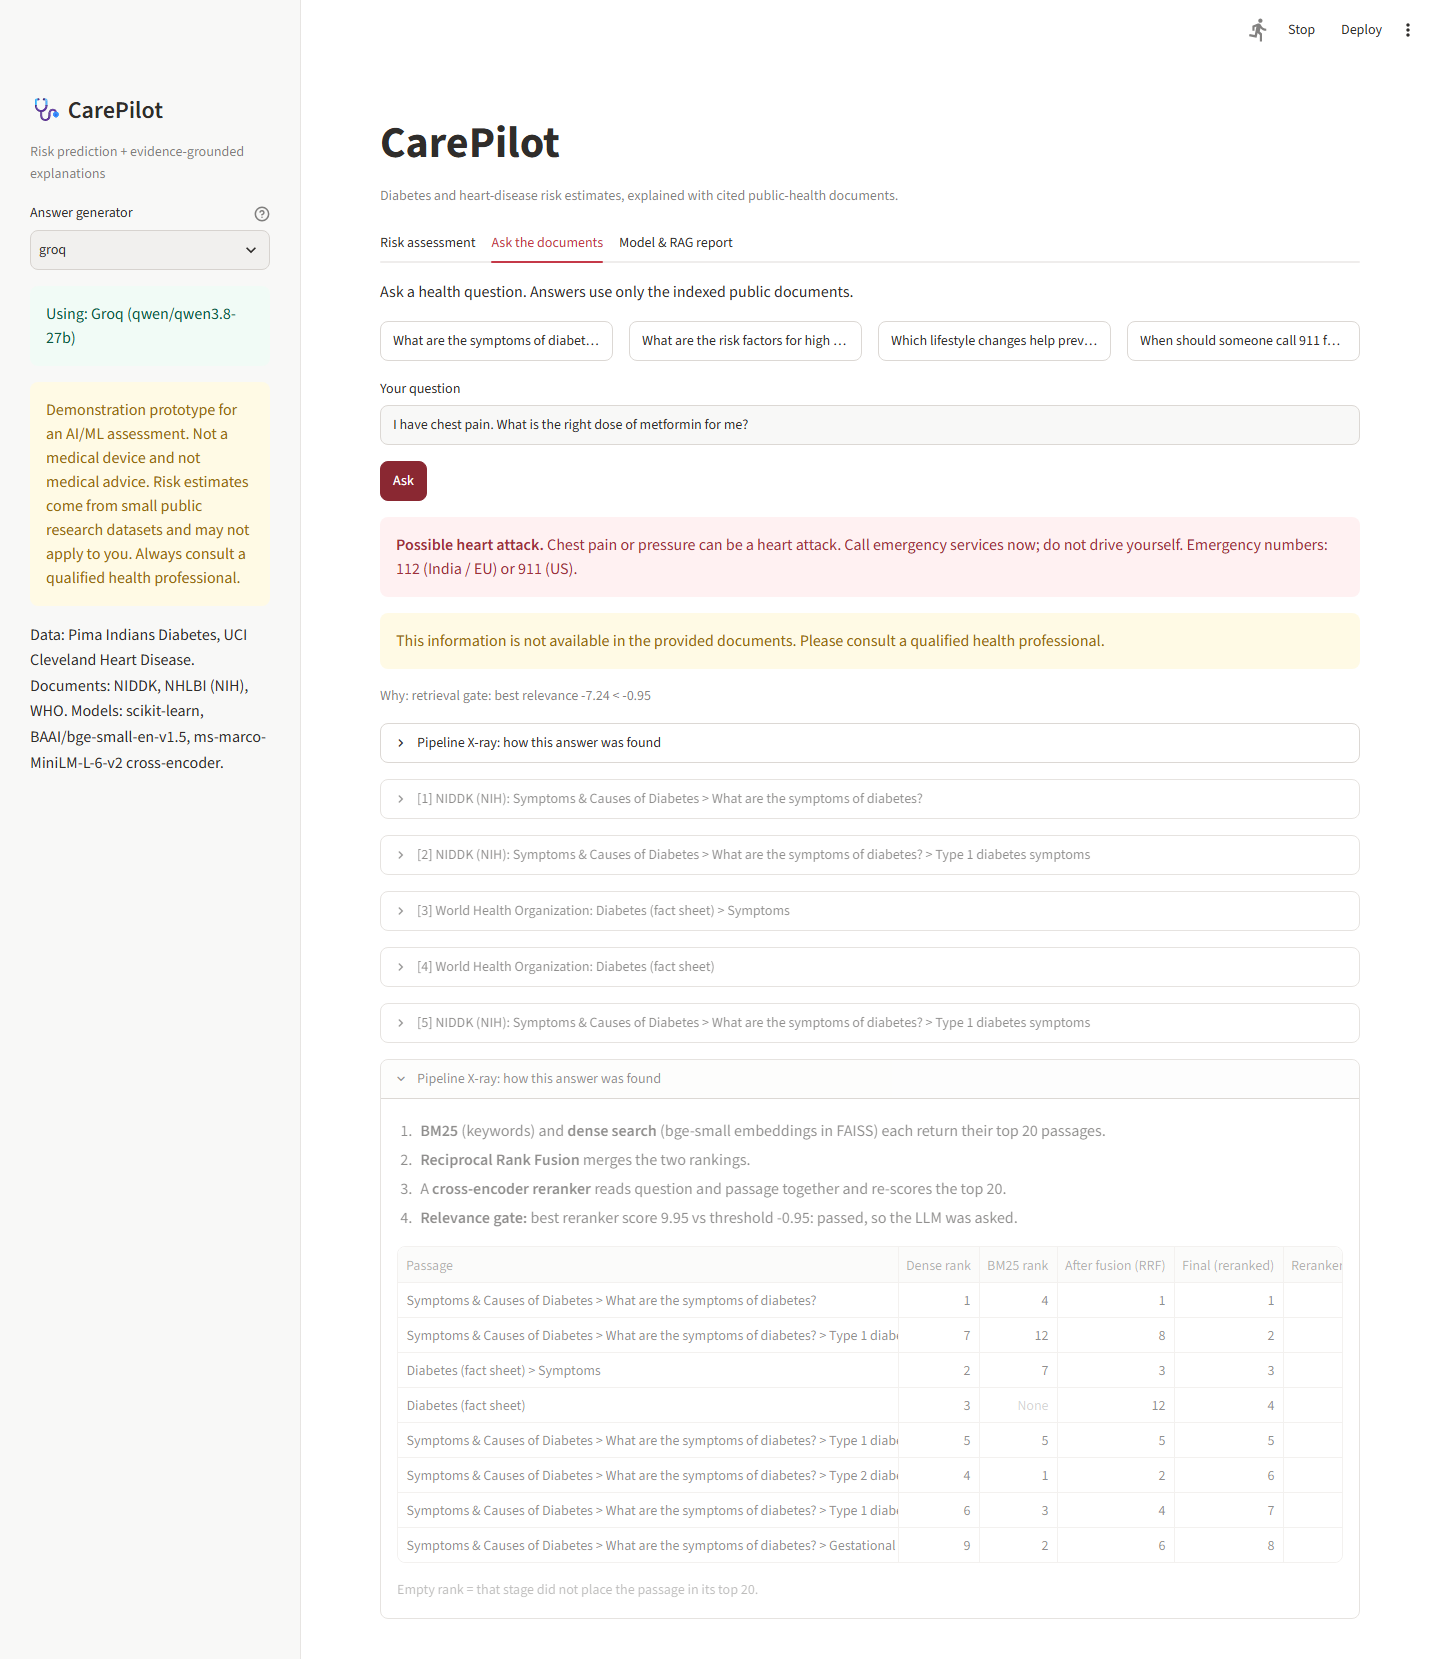
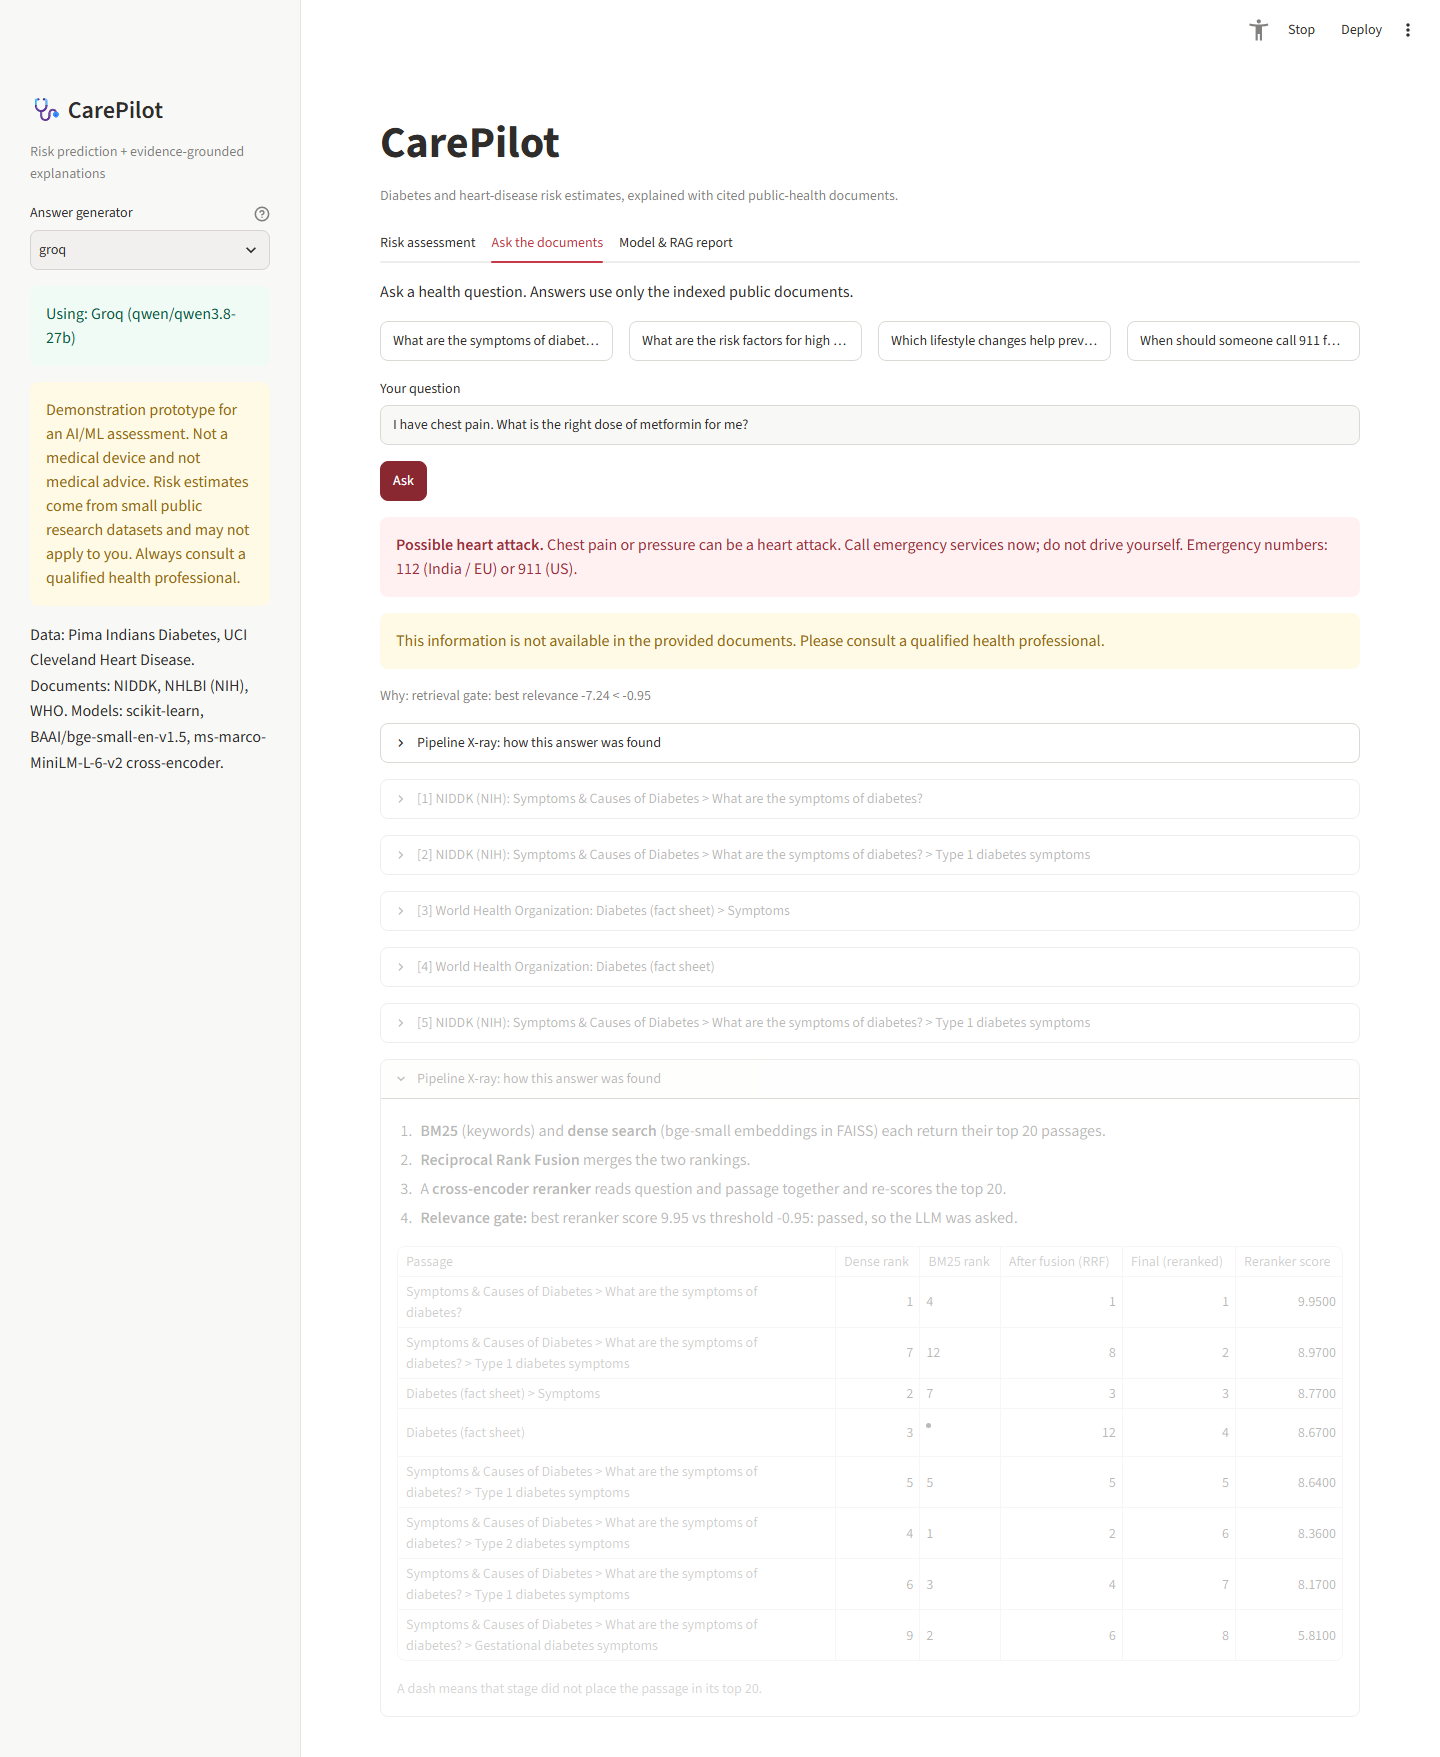
fix: X-ray table formatting; floor entailment display; screenshots with Groq

diff --git a/app/streamlit_app.py b/app/streamlit_app.py
@@ -9,6 +9,7 @@ written to disk or logged.
 from __future__ import annotations
 
 import json
+import math
 
 import altair as alt
 import pandas as pd
@@ -161,7 +162,10 @@ def show_claim_check(ans: Answer) -> None:
                     "Sentence": [c.sentence for c in checks],
                     "Cites": [", ".join(map(str, c.cited)) or "none" for c in checks],
                     "Entailment": [
-                        "n/a" if c.entailment is None else f"{c.entailment:.2f}" for c in checks
+                        "n/a"
+                        if c.entailment is None
+                        else f"{math.floor(c.entailment * 100) / 100:.2f}"
+                        for c in checks
                     ],
                     "Supported": ["yes" if c.supported else "check" for c in checks],
                 }
@@ -347,11 +351,11 @@ def pipeline_trace(question: str) -> pd.DataFrame:
     return pd.DataFrame(
         {
             "Passage": [r.passage for r in rows],
-            "Dense rank": [r.dense_rank or "-" for r in rows],
-            "BM25 rank": [r.bm25_rank or "-" for r in rows],
+            "Dense rank": [r.dense_rank or "n/a" for r in rows],
+            "BM25 rank": [r.bm25_rank or "n/a" for r in rows],
             "After fusion (RRF)": [r.rrf_rank for r in rows],
             "Final (reranked)": [r.rerank_rank for r in rows],
-            "Reranker score": [round(r.rerank_score, 2) for r in rows],
+            "Reranker score": [f"{r.rerank_score:.2f}" for r in rows],
         }
     )
 
@@ -379,7 +383,7 @@ def show_xray(ans: Answer) -> None:
             f"{threshold:.2f}: {verdict}."
         )
         st.table(pipeline_trace(ans.question).set_index("Passage"))
-        st.caption("A dash means that stage did not place the passage in its top 20.")
+        st.caption("n/a means that stage did not place the passage in its top 20.")
 
 
 # ---------- Report tab ----------

diff --git a/scripts/capture_screenshots.py b/scripts/capture_screenshots.py
@@ -60,7 +60,13 @@ def main() -> None:
         # .last: the hidden Risk tab also holds a "Sources" header
         expect(main_area.get_by_text("Sources", exact=True).last).to_be_visible()
         expect(idle).to_have_count(0)
-        main_area.get_by_test_id("stExpander").last.click()
+        # Open the claim check and the pipeline X-ray; wait for their tables to render.
+        main_area.get_by_text("Claim check:").last.click()
+        expect(main_area.get_by_text("Entailment").last).to_be_visible()
+        main_area.get_by_text("Pipeline X-ray: how this answer was found").last.click()
+        expect(main_area.get_by_text("Relevance gate").last).to_be_visible()
+        expect(idle).to_have_count(0)
+        page.wait_for_timeout(1_500)  # let the expander open animation finish before capture
         page.screenshot(path=OUT / "ask.png", full_page=True)
 
         main_area.get_by_label("Your question").fill(

diff --git a/README.md b/README.md
@@ -212,11 +212,11 @@ The golden set has 30 answerable questions, labeled with the documents that answ
 
 | Generator | Answer rate | Key-fact coverage | Citation precision | Sentences cited | Sentences entailed (NLI) | Abstained on unanswerable | LLM alone refuses (gate 1 off) | Median latency |
 |---|---|---|---|---|---|---|---|---|
-| **Groq Qwen3.8 27B** | **100%** | **100%** | 90% | 98% | 82% | 100% | 80% | 1.6 s |
+| **Groq Qwen3.8 27B** | **100%** | **100%** | 89% | 98% | 84% | 100% | 80% | 1.5 s |
 | Ollama qwen2.5:3b (local, private) | 83% | 75% | 95% | 86% | not run | 100% | 90% | 16.5 s |
 | Extractive (no LLM) | 100% | 78% | 91% | 100% | 100% (verbatim quotes, a sanity check for the verifier) | 100% | n/a | 0.9 s |
 
-How the three compare: the cloud 27B model covers every expected fact at 1.6 s. The local 3B model keeps patient data on the machine, but it is 10x slower and sometimes refuses answerable questions. The no-LLM mode needs no key and quotes passages verbatim, so it is fully grounded but less complete. The gate-2 stress test shows **defense in depth**: with the retrieval gate switched off, the LLMs alone still refuse 8-9 of 10 unanswerable questions. With both gates on, every unanswerable question in the eval was refused.
+How the three compare: the cloud 27B model covers every expected fact at 1.5 s. The local 3B model keeps patient data on the machine, but it is 10x slower and sometimes refuses answerable questions. The no-LLM mode needs no key and quotes passages verbatim, so it is fully grounded but less complete. The gate-2 stress test shows **defense in depth**: with the retrieval gate switched off, the LLMs alone still refuse 8-9 of 10 unanswerable questions. With both gates on, every unanswerable question in the eval was refused.
 
 ---
 

diff --git a/reports/rag_eval.md b/reports/rag_eval.md
@@ -38,7 +38,7 @@ _(answerable questions far above the threshold omitted)_
 | Provider | Answer rate (answerable) | Key-fact coverage | Citation precision | Sentences with citation | Sentences entailed by citation (NLI) | Abstained on unanswerable | Caught by gate 1 / gate 2 | LLM alone refuses (gate 1 off) | Median latency |
 |---|---|---|---|---|---|---|---|---|---|
 | Extractive (no LLM) | 100% | 78% | 91% | 100% | 100% | 100% | 10 / 0 | n/a | 0.9 s |
-| Groq (qwen/qwen3.8-27b) | 100% | 100% | 90% | 98% | 82% | 100% | 10 / 0 | 80% | 1.6 s |
+| Groq (qwen/qwen3.8-27b) | 100% | 100% | 89% | 98% | 84% | 100% | 10 / 0 | 80% | 1.5 s |
 | Ollama local (qwen2.5:3b) | 83% | 75% | 95% | 86% | n/a | 100% | 10 / 0 | 90% | 16.5 s |
 
 Metric definitions: *key-fact coverage* is the share of expected fact groups found in the answer text (string match on any accepted phrasing); *citation precision* is the share of cited passages that come from a document marked relevant; *sentences with citation* is the share of answer sentences carrying a [n] marker; *LLM alone refuses* re-asks the unanswerable questions with the retrieval gate disabled to see whether the model refuses by itself (defense in depth); *sentences entailed by citation* runs an NLI model (DeBERTa-v3-xsmall) on each sentence against its cited passage, a strict check that can flag faithful paraphrases. String matching undercounts paraphrases, so coverage is a lower bound.
